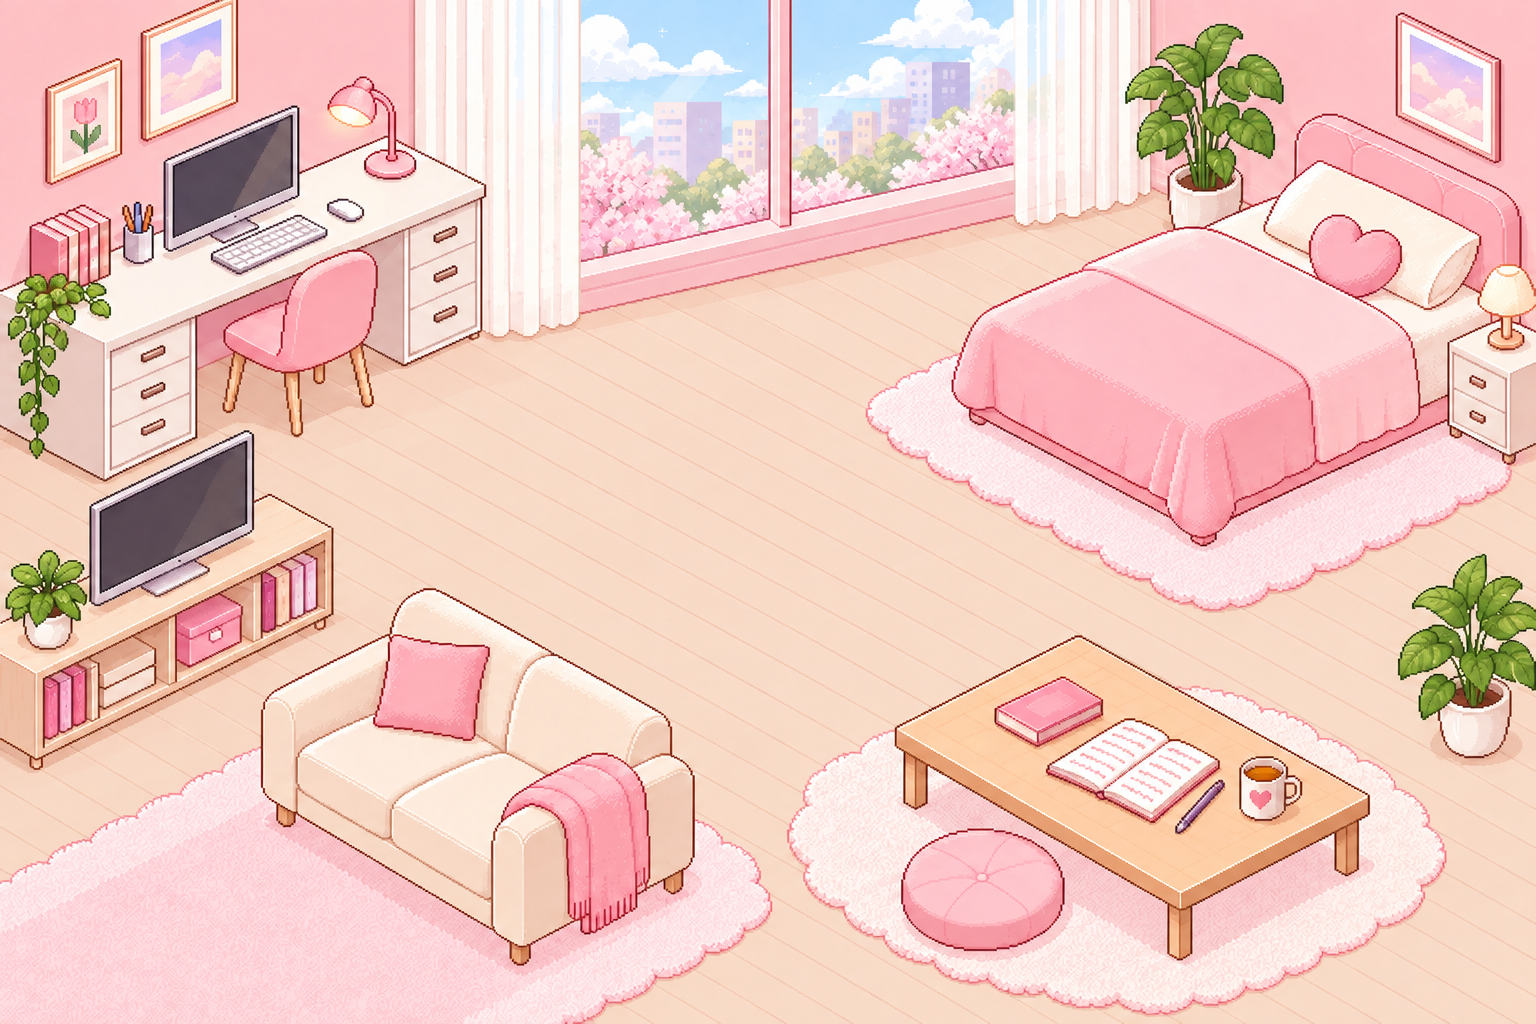
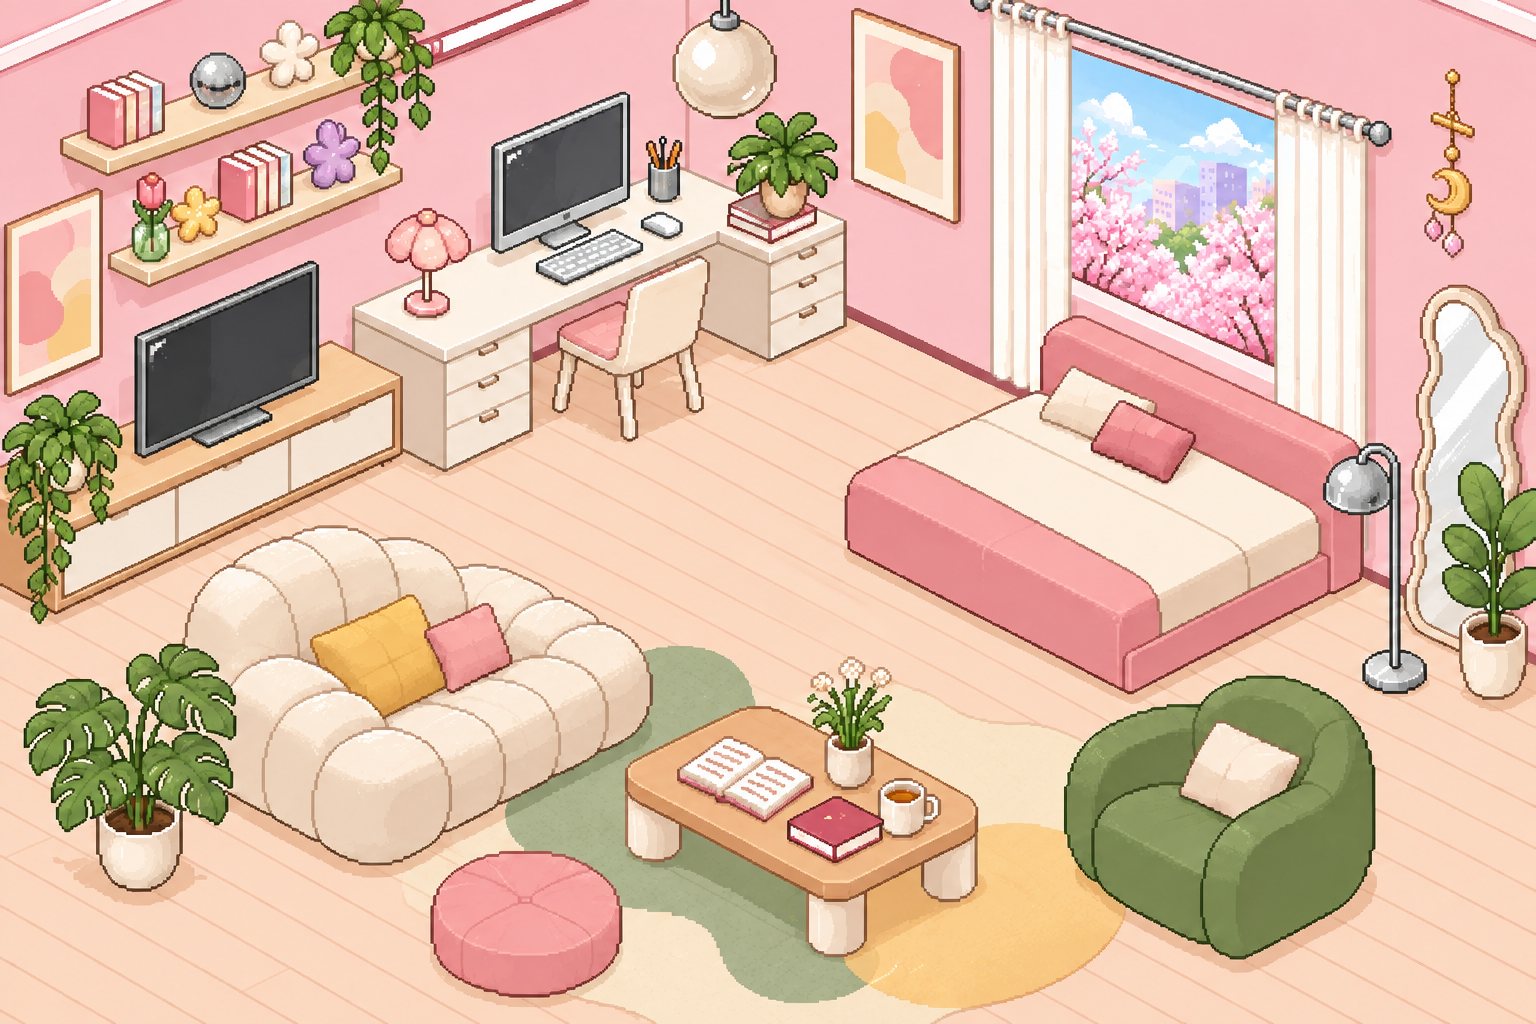
Restyle playful pixel room

diff --git a/src/PixelRoom.css b/src/PixelRoom.css
@@ -21,8 +21,8 @@
 
 .pixel-tea-steam {
   position: absolute;
-  left: 87.7%;
-  top: 63%;
+  left: 60.5%;
+  top: 65.5%;
   z-index: 2;
   width: 20px;
   height: 38px;
